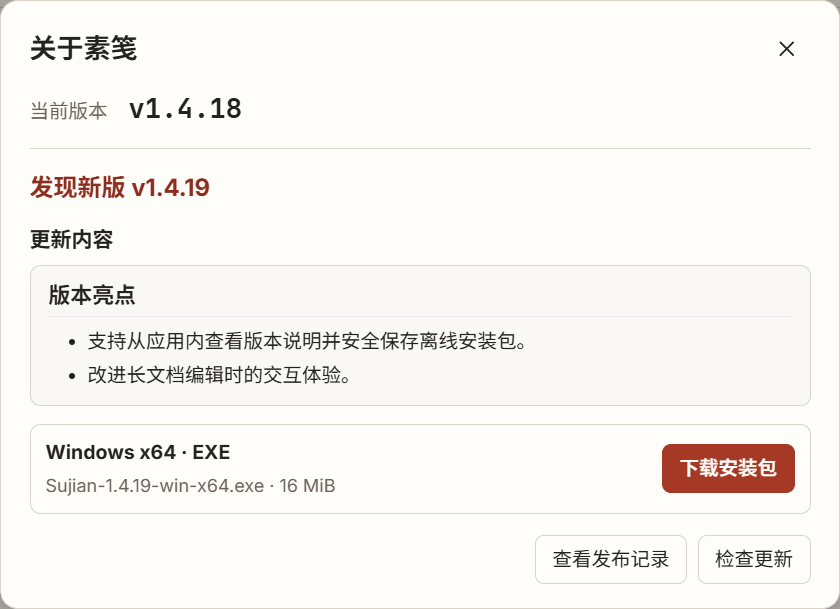
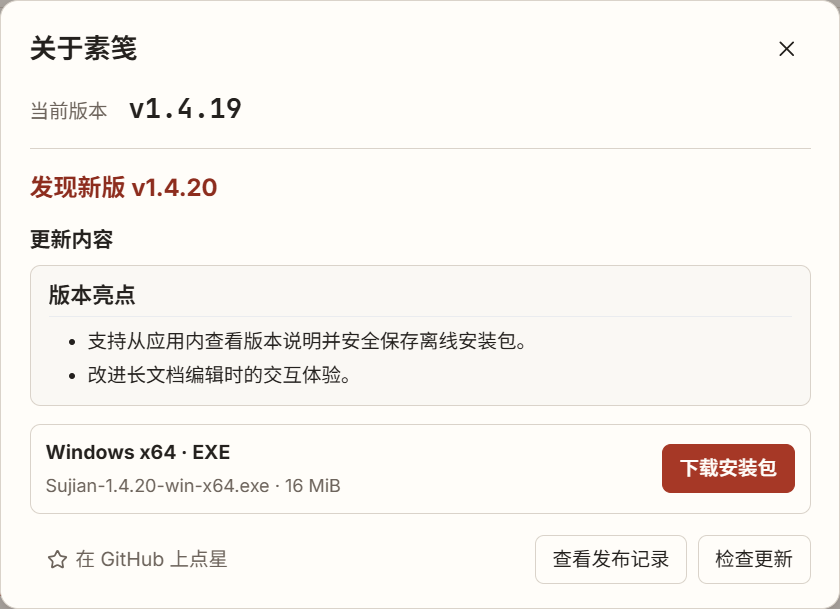
Add a discreet GitHub Star entry to About

diff --git a/src/ui/AboutDialog.jsx b/src/ui/AboutDialog.jsx
@@ -1,10 +1,12 @@
 import { useEffect, useRef, useState } from 'react'
+import { Star } from 'lucide-react'
 import { renderPreview } from '../editor/render-document.js'
 import { desktop } from '../workspace/desktop.js'
 import { Modal } from './Controls.jsx'
 import './about-dialog.css'
 
-const releaseHistory = 'https://github.com/peterwangze/sujian-markdown/releases'
+const repositoryUrl = 'https://github.com/peterwangze/sujian-markdown'
+const releaseHistory = `${repositoryUrl}/releases`
 const platformNames = { win32: 'Windows', darwin: 'macOS', linux: 'Linux' }
 const fileSizeFormat = new Intl.NumberFormat('zh-CN', { maximumFractionDigits: 1 })
 
@@ -109,6 +111,9 @@ export function AboutDialog({ open, versionLabel, theme, onClose, run }) {
       </div>}
     </section>}
     <footer>
+      <button type="button" className="about-star" onClick={() => run(() => desktop.openExternal(repositoryUrl))}>
+        <Star size={14} aria-hidden="true"/>在 GitHub 上点星
+      </button>
       <button type="button" onClick={() => run(() => desktop.openExternal(releaseHistory))}>查看发布记录</button>
       {supportsUpdates && <button type="button" className={hasUpdate ? '' : 'primary'} disabled={checking || downloading}
         onClick={() => void checkForUpdates()}>检查更新</button>}

diff --git a/src/ui/about-dialog.css b/src/ui/about-dialog.css
@@ -28,3 +28,5 @@
 .update-progress > div { display: flex; align-items: center; justify-content: space-between; gap: 8px; }
 .update-progress progress { width: 100%; accent-color: var(--accent); }
 .about-dialog footer { flex-wrap: wrap; }
+.about-dialog footer > .about-star { display: inline-flex; align-items: center; gap: 5px; margin-inline-end: auto; border-color: transparent; color: var(--muted); }
+.about-dialog footer > .about-star:hover { color: var(--accent-ink); }

diff --git a/README.md b/README.md
@@ -6,7 +6,7 @@
 
 <p align="center"><strong>写作时看见排版，改稿时看清变化。</strong></p>
 <p align="center">给长文、技术文档和改稿用的本地 Markdown 编辑器。边写边看排版，用键盘找到文件和命令，再把确认过的改动交付出去。</p>
-<p align="center"><a href="https://github.com/peterwangze/sujian-markdown/releases/tag/v1.4.18"><strong>下载 v1.4.18 离线安装包</strong></a> · Windows / macOS / Linux</p>
+<p align="center"><a href="https://github.com/peterwangze/sujian-markdown/releases/tag/v1.4.19"><strong>下载 v1.4.19 离线安装包</strong></a> · Windows / macOS / Linux</p>
 
 ## 用顺手的方式写作
 
@@ -119,19 +119,21 @@ Windows 使用安装目录中的 `Sujian.exe`。macOS 使用 `/Applications/Suji
 
 | 系统 | x64 / Intel | ARM64 / Apple 芯片 |
 | --- | --- | --- |
-| Windows | [EXE](https://github.com/peterwangze/sujian-markdown/releases/download/v1.4.18/Sujian-1.4.18-win-x64.exe) | [EXE](https://github.com/peterwangze/sujian-markdown/releases/download/v1.4.18/Sujian-1.4.18-win-arm64.exe) |
-| macOS 13+ | [DMG](https://github.com/peterwangze/sujian-markdown/releases/download/v1.4.18/Sujian-1.4.18-mac-x64.dmg) | [DMG](https://github.com/peterwangze/sujian-markdown/releases/download/v1.4.18/Sujian-1.4.18-mac-arm64.dmg) |
-| Linux | [AppImage](https://github.com/peterwangze/sujian-markdown/releases/download/v1.4.18/Sujian-1.4.18-linux-x86_64.AppImage) · [DEB](https://github.com/peterwangze/sujian-markdown/releases/download/v1.4.18/Sujian-1.4.18-linux-amd64.deb) | [AppImage](https://github.com/peterwangze/sujian-markdown/releases/download/v1.4.18/Sujian-1.4.18-linux-arm64.AppImage) · [DEB](https://github.com/peterwangze/sujian-markdown/releases/download/v1.4.18/Sujian-1.4.18-linux-arm64.deb) |
+| Windows | [EXE](https://github.com/peterwangze/sujian-markdown/releases/download/v1.4.19/Sujian-1.4.19-win-x64.exe) | [EXE](https://github.com/peterwangze/sujian-markdown/releases/download/v1.4.19/Sujian-1.4.19-win-arm64.exe) |
+| macOS 13+ | [DMG](https://github.com/peterwangze/sujian-markdown/releases/download/v1.4.19/Sujian-1.4.19-mac-x64.dmg) | [DMG](https://github.com/peterwangze/sujian-markdown/releases/download/v1.4.19/Sujian-1.4.19-mac-arm64.dmg) |
+| Linux | [AppImage](https://github.com/peterwangze/sujian-markdown/releases/download/v1.4.19/Sujian-1.4.19-linux-x86_64.AppImage) · [DEB](https://github.com/peterwangze/sujian-markdown/releases/download/v1.4.19/Sujian-1.4.19-linux-amd64.deb) | [AppImage](https://github.com/peterwangze/sujian-markdown/releases/download/v1.4.19/Sujian-1.4.19-linux-arm64.AppImage) · [DEB](https://github.com/peterwangze/sujian-markdown/releases/download/v1.4.19/Sujian-1.4.19-linux-arm64.deb) |
 
 - **Windows** 双击 EXE 安装。安装包未做 Authenticode 签名。ARM64 版的 Pandoc 使用 Windows 11 的 x64 仿真。
 - **macOS** 挂载 DMG 后，将素笺拖到“应用程序”。此版本采用临时签名，首次启动时可能需要在“隐私与安全性”中允许打开。[Apple 打开应用说明](https://support.apple.com/en-us/102445)
 - **Linux** 赋予 AppImage 执行权限后打开，或通过软件包管理器安装 DEB。运行依赖发行版提供的 Chromium 系统库。
 
-安装包包含应用运行时、渲染资源、字体与 Pandoc。六种系统与架构组合均通过成品启动检查。[SHA-256 清单](https://github.com/peterwangze/sujian-markdown/releases/download/v1.4.18/SHA256SUMS.txt) · [构建与验证记录](https://github.com/peterwangze/sujian-markdown/actions/workflows/release.yml)
+安装包包含应用运行时、渲染资源、字体与 Pandoc。六种系统与架构组合均通过成品启动检查。[SHA-256 清单](https://github.com/peterwangze/sujian-markdown/releases/download/v1.4.19/SHA256SUMS.txt) · [构建与验证记录](https://github.com/peterwangze/sujian-markdown/actions/workflows/release.yml)
 
 点击窗口右下角的版本号，打开 **关于素笺 → 检查更新**。素笺会查询 GitHub 的最新正式版，告诉你是否已经是最新版。发现新版时，可以直接阅读更新内容，并下载适合当前系统和架构的安装包。Linux 可选择 AppImage 或 DEB。
 
 点击下载后，安装包会保存到系统的下载目录。下载进度可查看，也可以取消。文件大小和 SHA-256 校验通过后，用 **打开下载位置** 找到安装包并安装。检查和下载需要访问 GitHub，已安装的编辑器可继续离线使用。
+
+在 **关于素笺** 底部点击 **在 GitHub 上点星**，可打开项目主页并点 Star。
 
 <img src="docs/images/sujian-about-update.png" alt="关于素笺的更新检查示例显示当前版本、新版说明和适配 Windows x64 的下载安装包按钮。" width="540">
 

diff --git a/docs/desktop-interaction-acceptance.md b/docs/desktop-interaction-acceptance.md
@@ -75,6 +75,7 @@
 | `UI-06` 页面缩放、全屏与新窗口 | 调大小后恢复实际尺寸，从菜单、默认或自定义键进入全屏和新窗口。核对窗口间文档和偏好。 | 已通过恢复实际尺寸、工具栏进入全屏并用 `F11` 退出、新建窗口改键后停用旧加速键并打开第二窗口。首个窗口保留其文档。见 `check-heading-shortcuts-desktop.mjs`、`check-window-interactions-desktop.mjs`。 |
 | `UI-07` 当前运行版本 | 核对主窗口状态栏右下角的版本号。点击打开 **关于素笺**，核对窗口中的版本与应用自身版本一致。点击 **查看发布记录**，再分别用 `Esc` 和关闭按钮退出。 | Windows Electron 实测窗口版本、主进程运行版本、键盘打开和关闭，以及 GitHub 发布记录的目标地址。发布构建的启动检查也会核对当前运行版本。复测 `check-review-workflows-desktop.mjs`。 |
 | `UI-08` 检查更新与下载安装包 | 在 **关于素笺 → 检查更新** 核对当前已是最新版、发现新版、没有适配包以及网络失败。发现新版时核对更新说明、适配包名称和架构，下载一份并核对进度、取消、校验失败、重试及下载位置。 | Windows Electron 通过模拟发布响应实测各状态、HTTP 重定向、进度、取消清理、SHA-256 校验失败、重试及成功定位。另用实际下载模块从 GitHub 下载并校验 v1.4.17 Windows x64 安装包。三平台和两种架构的选包规则通过单元测试。见 `check-updates-desktop.mjs`、`electron/updates.test.cjs`。 |
+| `UI-09` GitHub 点星入口 | 打开 **关于素笺**，用鼠标或 `Enter` 激活左下角 **在 GitHub 上点星**，核对系统浏览器的目标，返回后仍可操作原窗口。 | Windows Electron 实测鼠标与键盘入口，并核对浏览器桥接收到的项目主页地址。复测 `check-review-workflows-desktop.mjs`。 |
 
 ## 审阅、工作流与交付
 
